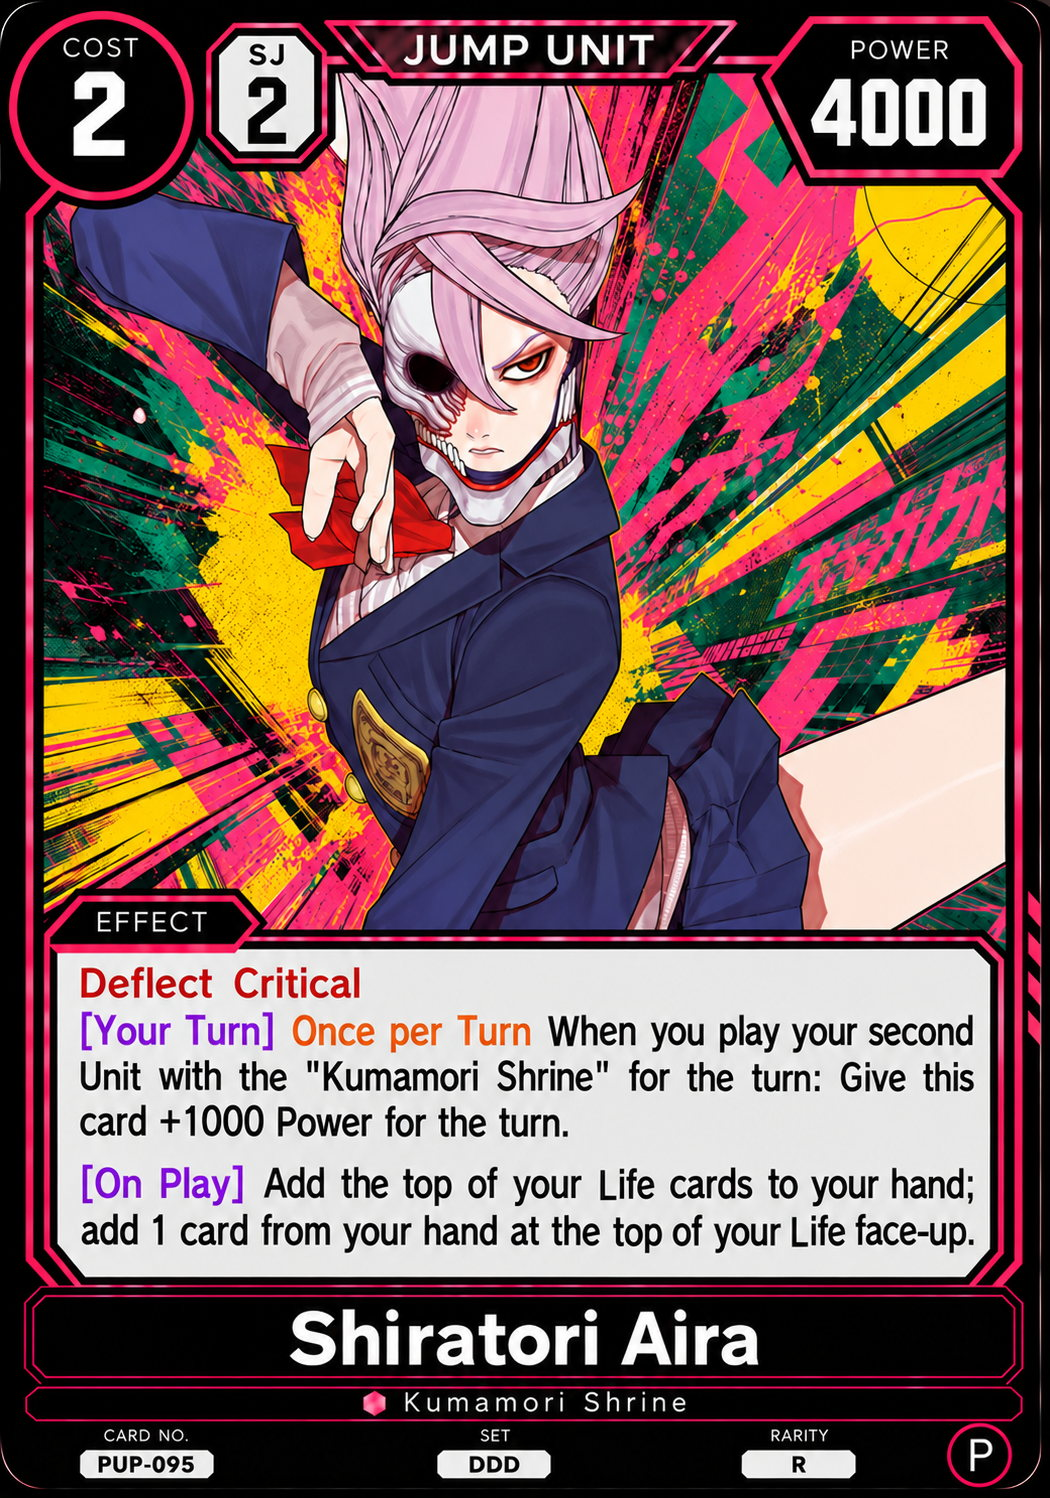
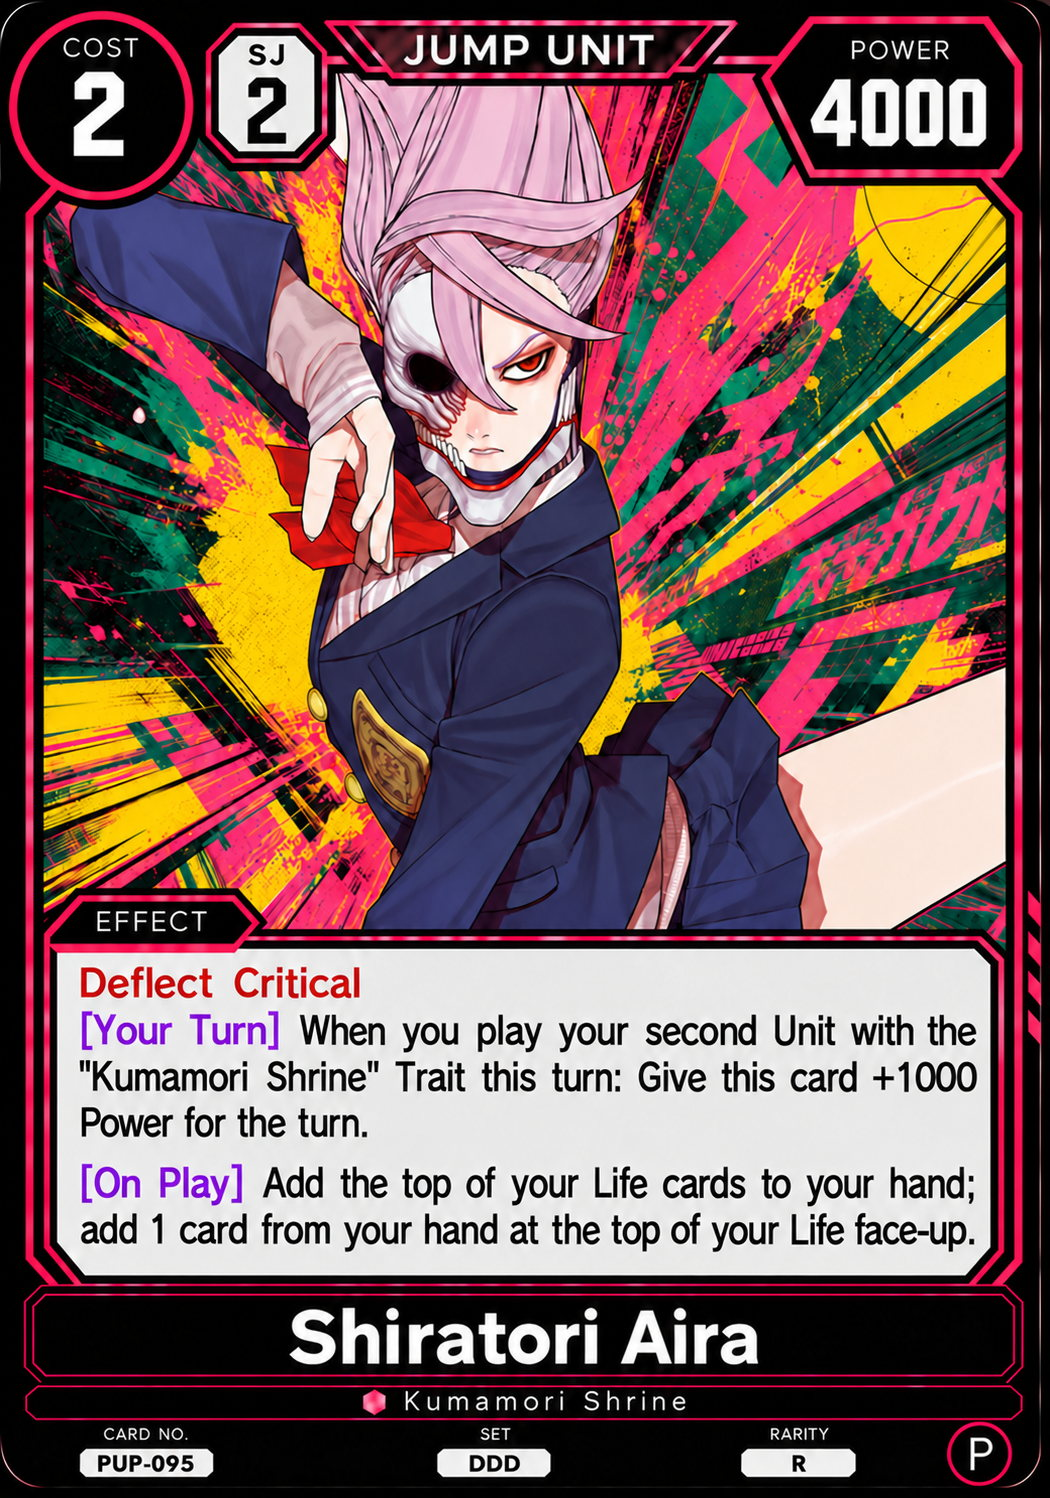
Correct PUP-095 second-Unit skill wording and print

diff --git a/card-text-data.js b/card-text-data.js
@@ -25113,8 +25113,8 @@ window.SJTCG_CARD_TEXT = {
     "set": "DDD",
     "rarity": "R",
     "bottom_right_circle": "P",
-    "effect": "Deflect Critical\n[Your Turn] Once per Turn When you play your second Unit with the \"Kumamori Shrine\" for the turn: Give this card +1000 Power for the turn.\n[On Play] Add the top of your Life cards to your hand; add 1 card from your hand at the top of your Life face-up.",
-    "effect_html": "<span class=\"kw kw-red\" title=\"Deflect\">Deflect</span> <span class=\"kw kw-red\" title=\"Critical\">Critical</span><br><span class=\"kw kw-purple\" title=\"Timing window\">[Your Turn]</span> <span class=\"kw kw-orange\" title=\"Once per Turn\">Once per Turn</span> When you play your second Unit with the &quot;Kumamori Shrine&quot; for the turn: Give this card +1000 Power for the turn.<br><span class=\"kw kw-purple\" title=\"Timing window\">[On Play]</span> Add the top of your Life cards to your hand; add 1 card from your hand at the top of your Life face-up.",
+    "effect": "Deflect Critical\n[Your Turn] When you play your second Unit with the \"Kumamori Shrine\" Trait this turn: Give this card +1000 Power for the turn.\n[On Play] Add the top of your Life cards to your hand; add 1 card from your hand at the top of your Life face-up.",
+    "effect_html": "<span class=\"kw kw-red\" title=\"Deflect\">Deflect</span> <span class=\"kw kw-red\" title=\"Critical\">Critical</span><br><span class=\"kw kw-purple\" title=\"Timing window\">[Your Turn]</span> When you play your second Unit with the &quot;Kumamori Shrine&quot; Trait this turn: Give this card +1000 Power for the turn.<br><span class=\"kw kw-purple\" title=\"Timing window\">[On Play]</span> Add the top of your Life cards to your hand; add 1 card from your hand at the top of your Life face-up.",
     "notes": "",
     "transcription_status": "verified",
     "release": "PUP",

diff --git a/index.html b/index.html
@@ -214,8 +214,8 @@
     </section>
   </div>
 
-  <script src="cards-data.js?v=a8fe8abf9dfc"></script>
-  <script src="card-text-data.js?v=a60ea1ba79e9"></script>
+  <script src="cards-data.js?v=f3577deb44c3"></script>
+  <script src="card-text-data.js?v=abacab42ac2e"></script>
   <script src="app.js?v=20261009-reprint-search-2"></script>
 </body>
 </html>

diff --git a/cards-data.js b/cards-data.js
@@ -14750,7 +14750,7 @@ window.SJTCG_CARD_DATA = [
     "cardType": "Main Deck",
     "deckLimit": 1,
     "orientation": "Portrait",
-    "imageVersion": "ccc326a3c6ec"
+    "imageVersion": "f58e368f4cfe"
   },
   {
     "number": "PUP-096",
